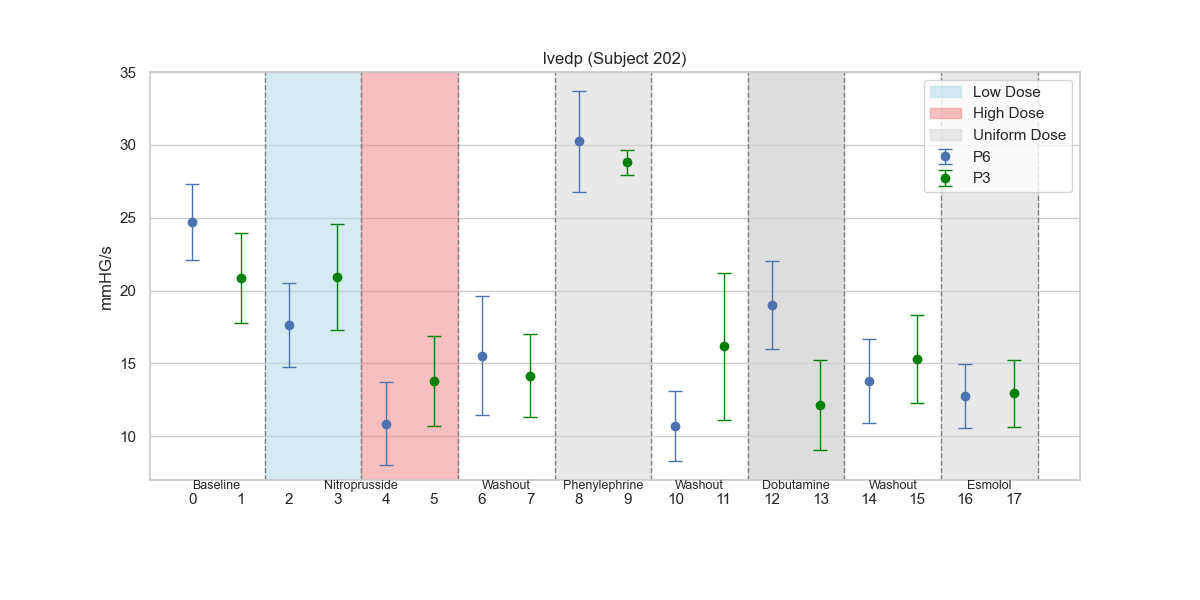
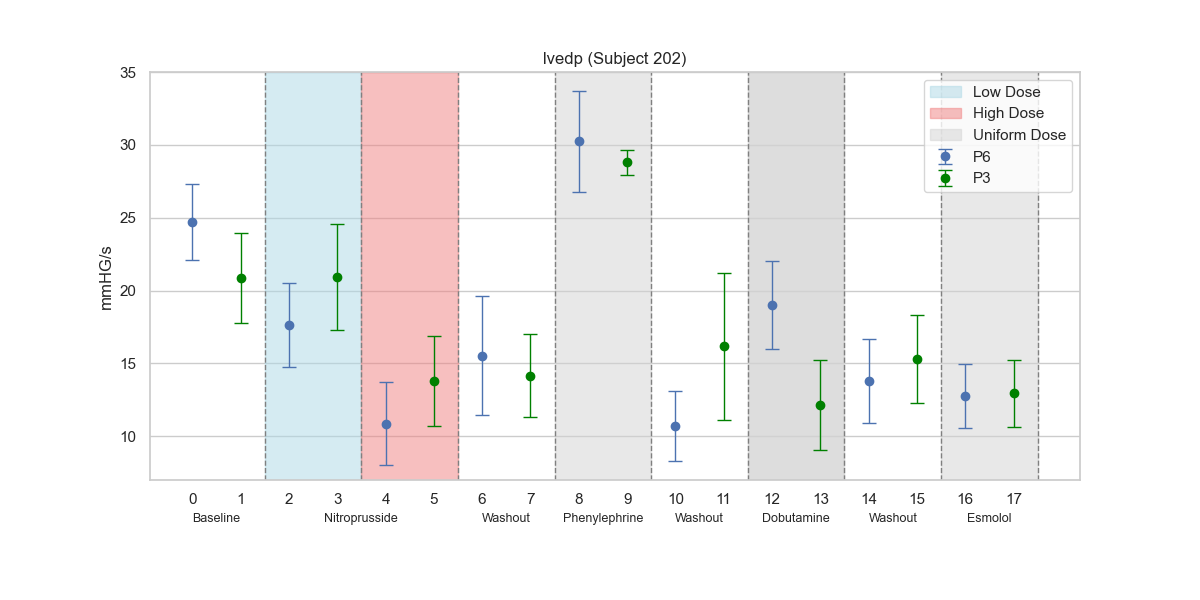
fixing plots

diff --git a/plots.py b/plots.py
@@ -34,13 +34,13 @@ def generate_221_plot(means, stds, subject, metric):
     plt.ylim(round(y_low-1), round(y_high+1))
     plt.subplots_adjust(bottom=0.2)
     plt.xticks(list(range(0, 16)))
-
-    plt.text(0.5, y_low-1, state_labels[0], horizontalalignment='center', verticalalignment='top', fontsize=9)
-    plt.text(3.5, y_low-1, state_labels[1], horizontalalignment='center', verticalalignment='top',  fontsize=9)
-    plt.text(6.5, y_low-1, state_labels[2], horizontalalignment='center', verticalalignment='top',  fontsize=9)
-    plt.text(9.5, y_low-1, state_labels[3], horizontalalignment='center', verticalalignment='top',  fontsize=9)
-    plt.text(12.5, y_low-1, state_labels[4], horizontalalignment='center', verticalalignment='top',  fontsize=9)
-    plt.text(15, y_low-1, state_labels[5], horizontalalignment='center', verticalalignment='top',  fontsize=9)
+    ax = plt.gca()
+    ax.text(0.5, -0.08, state_labels[0], transform=ax.get_xaxis_transform(), horizontalalignment='center', verticalalignment='top', fontsize=9)
+    ax.text(3.5, -0.08, state_labels[1], transform=ax.get_xaxis_transform(), horizontalalignment='center', verticalalignment='top',  fontsize=9)
+    ax.text(6.5, -0.08, state_labels[2], transform=ax.get_xaxis_transform(), horizontalalignment='center', verticalalignment='top',  fontsize=9)
+    ax.text(9.5, -0.08, state_labels[3], transform=ax.get_xaxis_transform(), horizontalalignment='center', verticalalignment='top',  fontsize=9)
+    ax.text(12.5, -0.08, state_labels[4], transform=ax.get_xaxis_transform(), horizontalalignment='center', verticalalignment='top',  fontsize=9)
+    ax.text(15, -0.08, state_labels[5], transform=ax.get_xaxis_transform(), horizontalalignment='center', verticalalignment='top',  fontsize=9)
 
     xaxis = list(range(len(means)))
 
@@ -95,14 +95,15 @@ def generate_203_plot(means, stds, subject, metric):
     plt.subplots_adjust(bottom=0.2)
     plt.xticks(list(range(0, 22)))
 
-    plt.text(0.5, y_low-1, state_labels[0], horizontalalignment='center', verticalalignment='top', fontsize=9)
-    plt.text(3.5, y_low-1, state_labels[1], horizontalalignment='center', verticalalignment='top',  fontsize=9)
-    plt.text(6.5, y_low-1, state_labels[2], horizontalalignment='center', verticalalignment='top',  fontsize=9)
-    plt.text(9.5, y_low-1, state_labels[3], horizontalalignment='center', verticalalignment='top',  fontsize=9)
-    plt.text(12.5, y_low-1, state_labels[4], horizontalalignment='center', verticalalignment='top',  fontsize=9)
-    plt.text(15.5, y_low-1, state_labels[5], horizontalalignment='center', verticalalignment='top',  fontsize=9)
-    plt.text(18.5, y_low-1, state_labels[6], horizontalalignment='center', verticalalignment='top',  fontsize=9)
-    plt.text(20.5, y_low-1, state_labels[7], horizontalalignment='center', verticalalignment='top',  fontsize=9)
+    ax = plt.gca()
+    ax.text(0.5, -0.08, state_labels[0], transform=ax.get_xaxis_transform(), horizontalalignment='center', verticalalignment='top', fontsize=9)
+    ax.text(3.5, -0.08, state_labels[1], transform=ax.get_xaxis_transform(), horizontalalignment='center', verticalalignment='top',  fontsize=9)
+    ax.text(6.5, -0.08, state_labels[2], transform=ax.get_xaxis_transform(), horizontalalignment='center', verticalalignment='top',  fontsize=9)
+    ax.text(9.5, -0.08, state_labels[3], transform=ax.get_xaxis_transform(), horizontalalignment='center', verticalalignment='top',  fontsize=9)
+    ax.text(12.5, -0.08, state_labels[4], transform=ax.get_xaxis_transform(), horizontalalignment='center', verticalalignment='top',  fontsize=9)
+    ax.text(15.5, -0.08, state_labels[5], transform=ax.get_xaxis_transform(), horizontalalignment='center', verticalalignment='top',  fontsize=9)
+    ax.text(18.5, -0.08, state_labels[6], transform=ax.get_xaxis_transform(), horizontalalignment='center', verticalalignment='top',  fontsize=9)
+    ax.text(20.5, -0.08, state_labels[7], transform=ax.get_xaxis_transform(), horizontalalignment='center', verticalalignment='top',  fontsize=9)
 
     xaxis = list(range(len(means)))
 
@@ -156,12 +157,13 @@ def generate_205_plot(means, stds, subject, metric):
     plt.subplots_adjust(bottom=0.2)
     plt.xticks(list(range(0, 17)))
 
-    plt.text(0.5, y_low-1, state_labels[0], horizontalalignment='center', verticalalignment='top', fontsize=9)
-    plt.text(3.5, y_low-1, state_labels[1], horizontalalignment='center', verticalalignment='top',  fontsize=9)
-    plt.text(6.5, y_low-1, state_labels[2], horizontalalignment='center', verticalalignment='top',  fontsize=9)
-    plt.text(9.5, y_low-1, state_labels[3], horizontalalignment='center', verticalalignment='top',  fontsize=9)
-    plt.text(12.5, y_low-1, state_labels[4], horizontalalignment='center', verticalalignment='top',  fontsize=9)
-    plt.text(15.5, y_low-1, state_labels[5], horizontalalignment='center', verticalalignment='top',  fontsize=9)
+    ax = plt.gca()
+    ax.text(0.5, -0.08, state_labels[0], transform=ax.get_xaxis_transform(), horizontalalignment='center', verticalalignment='top', fontsize=9)
+    ax.text(3.5, -0.08, state_labels[1], transform=ax.get_xaxis_transform(), horizontalalignment='center', verticalalignment='top',  fontsize=9)
+    ax.text(6.5, -0.08, state_labels[2], transform=ax.get_xaxis_transform(), horizontalalignment='center', verticalalignment='top',  fontsize=9)
+    ax.text(9.5, -0.08, state_labels[3], transform=ax.get_xaxis_transform(), horizontalalignment='center', verticalalignment='top',  fontsize=9)
+    ax.text(12.5, -0.08, state_labels[4], transform=ax.get_xaxis_transform(), horizontalalignment='center', verticalalignment='top',  fontsize=9)
+    ax.text(15.5, -0.08, state_labels[5], transform=ax.get_xaxis_transform(), horizontalalignment='center', verticalalignment='top',  fontsize=9)
 
     xaxis = list(range(len(means)))
 
@@ -215,14 +217,15 @@ def generate_202_plot(means, stds, subject, metric):
     plt.subplots_adjust(bottom=0.2)
     plt.xticks(list(range(0, 18)))
 
-    plt.text(0.5, y_low-1, state_labels[0], horizontalalignment='center', verticalalignment='top', fontsize=9)
-    plt.text(3.5, y_low-1, state_labels[1], horizontalalignment='center', verticalalignment='top',  fontsize=9)
-    plt.text(6.5, y_low-1, state_labels[2], horizontalalignment='center', verticalalignment='top',  fontsize=9)
-    plt.text(8.5, y_low-1, state_labels[3], horizontalalignment='center', verticalalignment='top',  fontsize=9)
-    plt.text(10.5, y_low-1, state_labels[4], horizontalalignment='center', verticalalignment='top',  fontsize=9)
-    plt.text(12.5, y_low-1, state_labels[5], horizontalalignment='center', verticalalignment='top',  fontsize=9)
-    plt.text(14.5, y_low-1, state_labels[6], horizontalalignment='center', verticalalignment='top',  fontsize=9)
-    plt.text(16.5, y_low-1, state_labels[7], horizontalalignment='center', verticalalignment='top',  fontsize=9)
+    ax = plt.gca()
+    ax.text(0.5, -0.08, state_labels[0], transform=ax.get_xaxis_transform(), horizontalalignment='center', verticalalignment='top', fontsize=9)
+    ax.text(3.5, -0.08, state_labels[1], transform=ax.get_xaxis_transform(), horizontalalignment='center', verticalalignment='top',  fontsize=9)
+    ax.text(6.5, -0.08, state_labels[2], transform=ax.get_xaxis_transform(), horizontalalignment='center', verticalalignment='top',  fontsize=9)
+    ax.text(8.5, -0.08, state_labels[3], transform=ax.get_xaxis_transform(), horizontalalignment='center', verticalalignment='top',  fontsize=9)
+    ax.text(10.5, -0.08, state_labels[4], transform=ax.get_xaxis_transform(), horizontalalignment='center', verticalalignment='top',  fontsize=9)
+    ax.text(12.5, -0.08, state_labels[5], transform=ax.get_xaxis_transform(), horizontalalignment='center', verticalalignment='top',  fontsize=9)
+    ax.text(14.5, -0.08, state_labels[6], transform=ax.get_xaxis_transform(), horizontalalignment='center', verticalalignment='top',  fontsize=9)
+    ax.text(16.5, -0.08, state_labels[7], transform=ax.get_xaxis_transform(), horizontalalignment='center', verticalalignment='top',  fontsize=9)
 
     xaxis = list(range(len(means)))
 

diff --git a/main.py b/main.py
@@ -32,7 +32,7 @@ not at the same index for each subject.
 #process.combined_phase_data(202, plot=False)
 
 # RUN EVERYTHING
-process.combined_phase_data(221, plot=False)
-process.combined_phase_data(205, plot=False)
-process.combined_phase_data(203, plot=False)
-process.combined_phase_data(202, plot=False)
+#process.combined_phase_data(221, plot=False)
+#process.combined_phase_data(205, plot=False)
+#process.combined_phase_data(203, plot=False)
+#process.combined_phase_data(202, plot=False)
